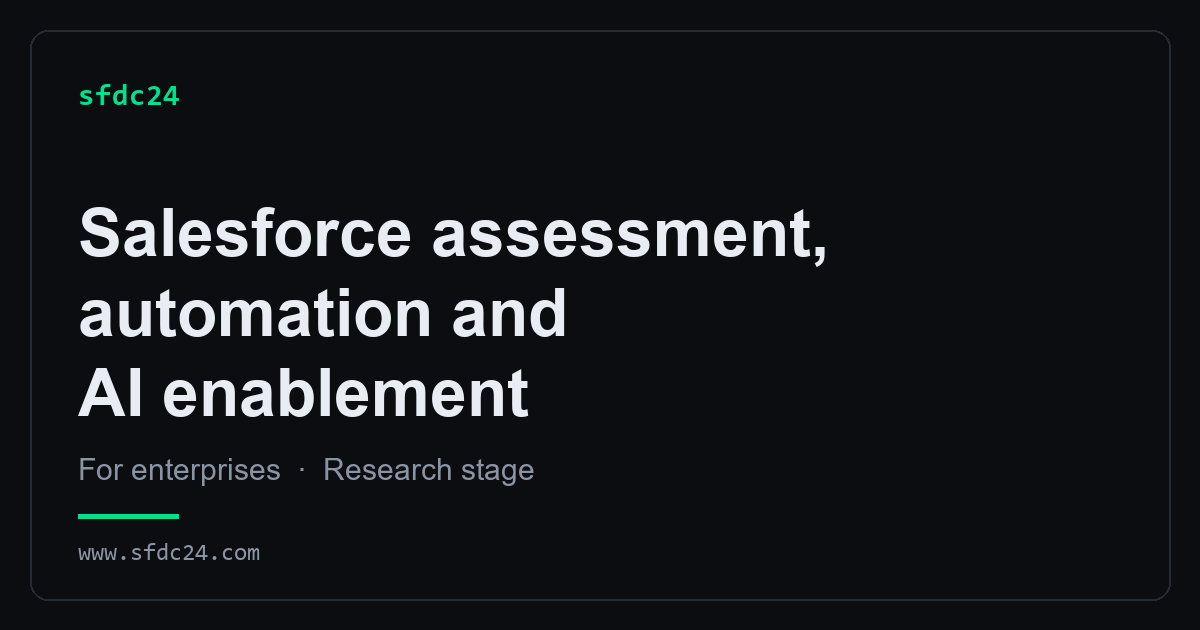
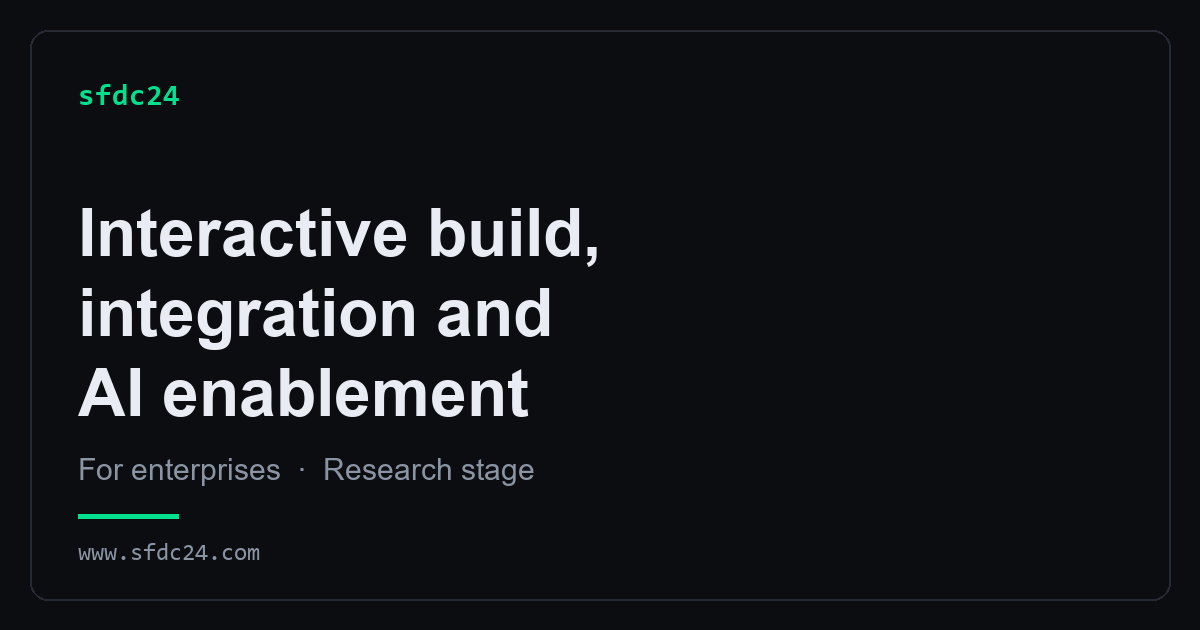
Take Salesforce out of the taglines, and make the wait worth watching
Mr. Salam, 2026-09-16: "I dont want to see 'salesforce' taglines in the
websites... sfdc24.com is all about using AI to deliver excellence to
customers", and "interactive build, true integration and seamless workflows;
what you see is what you will get here and you are first in command with layers
of controls embedded in AI working agents".

POSITIONING. The hero, title, meta description, both og tags, the ld+json block,
the close, and the taglines on intake, terms, privacy, projects and voice now
lead with interactive build, integration and AI enablement. Zero Salesforce
taglines outside /p/.

What deliberately STAYED: intake posts to Salesforce Web-to-Lead and /xray/ is a
Salesforce readout demo. Those are factual descriptions of a mechanism - making
them vague would make the pages wrong.

GAMIFIED THE WAIT. The four suggestion chips were Salesforce trivia and sent
their own label as the question. They are now symptoms - approvals that sit for
days, reports nobody trusts - and each composes a real question through
data-pick. While the answer comes back, a small runner animates beside a
rotating line about the work instead of a static "thinking...". stopWaiting()
is called on all four exit paths; without it the interval survives the answer
and a quip overwrites the error the visitor is reading.

TESTS. RETIRED was the wrong home for the Salesforce taglines and it took a
failure on a published prototype to show why. RETIRED is copy that was WRONG
[…]

Changed region(s): [[0.0617, 0.3317, 0.7092, 0.4222], [0.0617, 0.4524, 0.4933, 0.573]]

diff --git a/index.html b/index.html
@@ -8,17 +8,17 @@
      was, so for a while the page said one thing and every share card, search
      snippet and browser tab said the old one. A visitor who never scrolls sees
      the title; a visitor on LinkedIn sees only the card. Those ARE the content. -->
-<title>SFDC24 — Salesforce assessment and automation</title>
+<title>SFDC24 — interactive build, integration and AI enablement</title>
 
 <!-- The whole reason for leaving Google Sites: Sites has no field for this,
      so Google was writing our search snippet for us. -->
-<meta name="description" content="Salesforce assessment, business process automation and AI enablement for enterprises. A four-pillar model of security, operability, waste and redundancy. Research stage - the scoring model exists, the connector that reads a live org does not yet.">
+<meta name="description" content="Business process automation and AI enablement, built interactively. Describe the problem and watch it get built. You stay first in command, with layers of control inside the agents doing the work. Research stage - the scoring model exists, the connector that reads a live system does not yet.">
 <link rel="canonical" href="https://www.sfdc24.com/">
 
 <meta property="og:type" content="website">
 <meta property="og:url" content="https://www.sfdc24.com/">
-<meta property="og:title" content="SFDC24 — Salesforce assessment and automation">
-<meta property="og:description" content="Salesforce assessment, business process automation and AI enablement for enterprises &mdash; security, operability, waste, redundancy. Research stage, built in the open by a team of AI agents that review each other. No live org has been scored yet.">
+<meta property="og:title" content="SFDC24 — interactive build, integration and AI enablement">
+<meta property="og:description" content="Business process automation and AI enablement delivered as working software, not slides. You stay first in command; the controls sit inside the agents doing the work. Research stage, built in the open by a team of AI agents that review each other.">
 <meta name="theme-color" content="#0C2340">
 <meta name="apple-mobile-web-app-capable" content="yes">
 <meta name="apple-mobile-web-app-title" content="SFDC24">
@@ -27,7 +27,7 @@
 <meta property="og:image" content="https://www.sfdc24.com/assets/og.png">
 <meta property="og:image:width" content="1200">
 <meta property="og:image:height" content="630">
-<meta property="og:image:alt" content="SFDC24 - Salesforce assessment, business process automation and AI enablement for enterprises.">
+<meta property="og:image:alt" content="SFDC24 - interactive build, business process automation and AI enablement.">
 <meta name="twitter:card" content="summary_large_image">
 
 <link rel="icon" href="assets/favicon.ico" sizes="any">
@@ -49,12 +49,12 @@
   "url": "https://www.sfdc24.com/",
   "image": "https://www.sfdc24.com/assets/og.png",
   "email": "abdus@sfdc24.com",
-  "description": "Salesforce assessment, business process automation and AI enablement for enterprises. A four-pillar model — security, operability, waste, redundancy. Research stage: the scoring model exists, the connector that reads a live org is not built yet, and the sample readout on this site is synthetic.",
+  "description": "Interactive build, integration and AI enablement for enterprises. Business process automation delivered as working software, with layers of control inside the agents doing the work. Research stage: the scoring model exists, the connector that reads a live system is not built yet, and the sample readout on this site is synthetic.",
   "priceRange": "$$",
   "address": { "@type": "PostalAddress", "addressLocality": "Toronto", "addressRegion": "ON", "addressCountry": "CA" },
   "areaServed": "CA",
   "knowsAbout": [
-    "Salesforce org assessment",
+    "Interactive build",
     "Business process automation",
     "AI enablement for enterprises",
     "Process measurement"
@@ -122,6 +122,28 @@ table.ledger{width:100%;border-collapse:collapse;font-size:15px;border-top:2px s
 .console .sub{color:var(--panel-soft);font-size:16px;margin:0 0 22px;max-width:62ch}
 .chips{display:flex;gap:9px;flex-wrap:wrap;margin:0 0 22px}
 .chips[hidden]{display:none}
+
+/* The wait is the moment a visitor decides whether this thing is alive. A
+   static "thinking…" reads like a spinner; a character that keeps moving and
+   says something worth reading reads like someone is working on it. */
+.waiting{display:flex;align-items:center;gap:11px;min-height:1.3em}
+.runner{flex:none;width:22px;height:22px;position:relative}
+.runner i{position:absolute;display:block;background:var(--signal);border-radius:1px}
+.runner .head{width:7px;height:7px;border-radius:50%;left:7px;top:0}
+.runner .body{width:3px;height:9px;left:9px;top:7px}
+.runner .leg{width:3px;height:7px;top:15px;transform-origin:top center}
+.runner .l1{left:6px;animation:stride .5s infinite alternate ease-in-out}
+.runner .l2{left:12px;animation:stride .5s infinite alternate-reverse ease-in-out}
+.runner .arm{width:3px;height:6px;top:8px;transform-origin:top center}
+.runner .a1{left:5px;animation:stride .5s infinite alternate-reverse ease-in-out}
+.runner .a2{left:13px;animation:stride .5s infinite alternate ease-in-out}
+@keyframes stride{from{transform:rotate(24deg)}to{transform:rotate(-24deg)}}
+.quip{font-size:13.5px;color:var(--panel-soft);animation:quipin .4s ease both}
+@keyframes quipin{from{opacity:0;transform:translateY(3px)}to{opacity:1;transform:none}}
+@media (prefers-reduced-motion:reduce){
+  .runner i{animation:none!important}
+  .quip{animation:none!important}
+}
 .chip{background:transparent;border:1px solid var(--panel-rule);color:var(--panel-ink);
   border-radius:999px;padding:11px 16px;min-height:44px;font:500 14.5px/1.3 var(--ui);
   cursor:pointer;text-align:left}
@@ -248,11 +270,12 @@ footer nav{display:flex;gap:18px;flex-wrap:wrap}
            shipping at once, and half the words on the homepage. Kept the
            capability-led framing because it is the wording reviewed into
            tests/capabilities.json; the problem-led variant is in git history. -->
-      <h1>Salesforce assessment, automation, and AI enablement.</h1>
-      <p class="deck">We measure what an enterprise Salesforce org is quietly
-      costing &mdash; in defects, rework and time &mdash; put a number on it,
-      and say what to fix first. Then we automate the process underneath it.
-      This is research stage and we would rather say so than pretend otherwise.</p>
+      <h1>What you see is what you get.</h1>
+      <p class="deck">Describe the problem and watch it get built &mdash; business
+      process automation and AI enablement delivered as working software, not a
+      slide deck. You stay first in command, and the controls sit inside the
+      agents doing the work. This is research stage and we would rather say so
+      than pretend otherwise.</p>
 
       <div class="actions">
         <a class="btn" href="#console">Ask a question</a>
@@ -283,10 +306,10 @@ footer nav{display:flex;gap:18px;flex-wrap:wrap}
     one this can solve, it will say so rather than book you a call.</p>
 
     <div class="chips" id="chips">
-      <button class="chip" type="button">What would you look at first in an org built in 2019?</button>
-      <button class="chip" type="button">How do you tell whether a report is wrong or the data is?</button>
-      <button class="chip" type="button">What does sandbox drift actually cost per release?</button>
-      <button class="chip" type="button">When is the honest answer "don't hire anyone"?</button>
+      <button class="chip" type="button" data-pick="approvals that sit for days">Approvals that sit for days</button>
+      <button class="chip" type="button" data-pick="reports nobody trusts">Reports nobody trusts</button>
+      <button class="chip" type="button" data-pick="the same data typed in twice">The same data, typed twice</button>
+      <button class="chip" type="button" data-pick="a spreadsheet holding the process together">A spreadsheet holding it together</button>
     </div>
 
     <div class="tape" id="tape" aria-live="polite" aria-label="Conversation"></div>
@@ -335,7 +358,7 @@ footer nav{display:flex;gap:18px;flex-wrap:wrap}
     <div class="finding">
       <div class="cadence">Surfaces at every process change</div>
       <div>
-        <h3>A process that moved on without telling Salesforce</h3>
+        <h3>A process that moved on without telling the system</h3>
         <p>The business changed. The org kept the receipts. Fields outlive their
         purpose, and you end up supporting three versions of one process at once.</p>
       </div>
@@ -386,8 +409,7 @@ footer nav{display:flex;gap:18px;flex-wrap:wrap}
         <p id="honest-boundary" data-honesty="claims-we-cannot-support"><strong>Where this actually is.</strong> Research stage, and here is
         the honest boundary. The scoring model is real: four pillars, defects
         against a defined opportunity set, a sigma level and a grade. What does
-        not exist yet is the part that reads a live org. Nothing here has scored
-        anyone's Salesforce instance. The console that shows a readout runs on
+        not exist yet is the part that reads a live org. Nothing here has scored anyone's live system yet. The console that shows a readout runs on
         synthetic data and says so on its own page, in four places, because a
         demo that quietly passes for a customer result is the one thing that
         would make the rest of this worthless. The connector is designed and not
@@ -408,8 +430,8 @@ footer nav{display:flex;gap:18px;flex-wrap:wrap}
 
   <div class="close">
     <h2 class="sec">Start with the thing that keeps coming back</h2>
-    <p>If there's a Salesforce process, automation, reporting or ownership problem
-    that resurfaces every few weeks, start there. Tell us what's happening, who it
+    <p>If there's a process, automation, reporting or ownership problem that
+    resurfaces every few weeks, start there. Tell us what's happening, who it
     affects, and what your team currently does to work around it.</p>
     <div class="contact">
       <a class="btn" href="#console">Ask a question</a>
@@ -418,7 +440,7 @@ footer nav{display:flex;gap:18px;flex-wrap:wrap}
   </div>
 
   <footer>
-    <div>SFDC24 — Salesforce assessment, automation and AI enablement</div>
+    <div>SFDC24 — interactive build, integration and AI enablement</div>
     <nav>
       <a href="/projects/">Projects</a>
       <a href="/privacy/">Privacy</a>
@@ -493,9 +515,15 @@ footer nav{display:flex;gap:18px;flex-wrap:wrap}
   });
   send.addEventListener("click", submit);
 
+  /* A chip is a symptom, not a sentence. Sending its label verbatim would ask
+     "Approvals that sit for days", which is not a question. data-pick carries
+     the clause, and the chip composes it — so one tap produces something worth
+     answering and the visitor sees what was asked. */
   Array.prototype.forEach.call(chips.querySelectorAll(".chip"), function(c){
     c.addEventListener("click", function(){
-      box.value=c.textContent.trim(); sync(); submit();
+      var pick = c.getAttribute("data-pick") || c.textContent.trim();
+      box.value = "We have " + pick + ". Where would you start?";
+      sync(); submit();
     });
   });
 
@@ -547,6 +575,50 @@ footer nav{display:flex;gap:18px;flex-wrap:wrap}
     tape.scrollTop=tape.scrollHeight;
   }
 
+  /* Something to watch while it thinks. Every quip is about the work, not a
+     joke pasted on top — the page is claiming it builds things, so the wait
+     should sound like someone building rather than a loading bar. */
+  var QUIPS = [
+    "reading the question properly",
+    "checking whether this is a real problem or a symptom",
+    "most of these turn out to be four problems wearing a coat",
+    "looking for the version of this that stays fixed",
+    "a spreadsheet is a database that escaped",
+    "the process changed; nobody told the system",
+    "if the answer is “it depends”, finding out what it depends on",
+    "working out what to leave alone",
+    "the expensive bugs are the ones nobody calls bugs",
+    "nearly there"
+  ];
+  var quipTimer=null, quipAt=0;
+
+  function startWaiting(){
+    stopWaiting();
+    quipAt = Math.floor(Math.random()*QUIPS.length);
+    state.textContent="";
+    var box2=document.createElement("div"); box2.className="waiting";
+    var r=document.createElement("span"); r.className="runner";
+    r.innerHTML='<i class="head"></i><i class="body"></i>'
+              + '<i class="leg l1"></i><i class="leg l2"></i>'
+              + '<i class="arm a1"></i><i class="arm a2"></i>';
+    var q=document.createElement("span"); q.className="quip"; q.textContent=QUIPS[quipAt];
+    box2.appendChild(r); box2.appendChild(q);
+    state.appendChild(box2);
+    quipTimer=setInterval(function(){
+      quipAt=(quipAt+1)%QUIPS.length;
+      var fresh=document.createElement("span");
+      fresh.className="quip"; fresh.textContent=QUIPS[quipAt];
+      if(q.parentNode){ q.parentNode.replaceChild(fresh,q); q=fresh }
+    }, 2600);
+  }
+
+  /* Every exit path calls this. A character still running after the answer
+     arrived says the page has lost track of its own state. */
+  function stopWaiting(){
+    if(quipTimer){ clearInterval(quipTimer); quipTimer=null }
+    state.textContent="";
+  }
+
   function submit(){
     var text=box.value.trim();
     if(!text || busy) return;
@@ -554,18 +626,25 @@ footer nav{display:flex;gap:18px;flex-wrap:wrap}
     clearRecovery();
     box.value=""; sync(); busy=true; send.disabled=true;
     turn("me","you",text);
-    state.textContent="thinking…";
+    startWaiting();
 
+    /* EVERY path below stops the runner before writing its own message.
+       Setting state.textContent alone clears the text but leaves the interval
+       alive, so 2.6s later a quip would overwrite the error the visitor is
+       trying to read — and the character would keep sprinting after the answer
+       landed. stopWaiting() clears both. */
     var settled=false;
     var slow=setTimeout(function(){
       if(settled) return;
+      stopWaiting();
       state.textContent="still working — this one is taking longer than usual";
       showRecovery("It is taking longer than usual. The question has not been lost, and the answer will appear here if it arrives. If you would rather not wait, email works.", false);
     }, SLOW_MS);
 
     jsonp({action:"say", vid:vid, q:text}, function(res){
       settled=true; clearTimeout(slow);
-      busy=false; sync(); state.textContent="";
+      stopWaiting();
+      busy=false; sync();
       if(!res || !res.ok || !res.reply){
         showRecovery("The assistant could not be reached just then. Your message was not lost.", true);
         return;
@@ -575,6 +654,7 @@ footer nav{display:flex;gap:18px;flex-wrap:wrap}
       if(chips.hidden===false){ chips.hidden=true }
     }, function(reason){
       clearTimeout(slow);
+      stopWaiting();
       if(reason==="transport"){
         state.textContent="connection ended — outcome unknown";
         showRecovery("This page can no longer receive the original answer. The request may still have reached the assistant, so this page will not send it twice. Email us if you need a confirmed response.", false);

diff --git a/voice/index.html b/voice/index.html
@@ -4,7 +4,7 @@
 <meta charset="utf-8">
 <meta name="viewport" content="width=device-width,initial-scale=1,viewport-fit=cover">
 <title>Talk &mdash; SFDC24</title>
-<meta name="description" content="Talk to SFDC24 out loud about a Salesforce org. Salesforce assessment, business process automation and AI enablement for enterprises. Tap once, say what is on your mind, and hear the answer back.">
+<meta name="description" content="Talk to SFDC24 out loud about a problem in your systems. Interactive build, integration and AI enablement for enterprises. Tap once, say what is on your mind, and hear the answer back.">
 <link rel="canonical" href="https://www.sfdc24.com/voice/">
 <meta name="robots" content="noindex">
 <meta name="theme-color" content="#0B0D10">
@@ -200,8 +200,8 @@ body{overflow:hidden}
     <a href="../">&larr; back to the site</a>
   </div>
 
-  <p class="voffer">Salesforce assessment, business process automation and AI
-  enablement for enterprises. Research stage.</p>
+  <p class="voffer">Interactive build, integration and AI enablement for
+  enterprises. Research stage.</p>
 
   <div class="state" id="state">
     <span class="dotled"></span>

diff --git a/terms/index.html b/terms/index.html
@@ -37,7 +37,7 @@
 <p class="updated">Last updated 4 September 2026</p>
 
 <h2>What this site is</h2>
-<p>A Salesforce assessment, business process automation and AI enablement service for enterprises, operating from the Toronto area. It exists so you can describe a problem and find out quickly whether it is worth a conversation.</p>
+<p>An interactive build, integration and AI enablement service for enterprises, operating from the Toronto area. It exists so you can describe a problem and find out quickly whether it is worth a conversation.</p>
 
 <h2>The chat is not advice</h2>
 <p>The assistant on the home page is Claude, made by Anthropic. It is useful for working out whether there is something here worth pursuing. It is not professional advice, it can be wrong, and nothing it says creates an engagement or an obligation on either side.</p>

diff --git a/intake/index.html b/intake/index.html
@@ -142,7 +142,7 @@
   <div class="lead-in">
     <div class="eyebrow">Start here · Gate 1</div>
     <h1>Tell us what you want to build.</h1>
-    <p>Salesforce assessment, business process automation and AI enablement for enterprises. Tell us what is going wrong and you will get a straight answer about whether it is worth a conversation.</p>
+    <p>Interactive build, integration and AI enablement for enterprises. Tell us what is going wrong and you will get a straight answer about whether it is worth a conversation.</p>
     <p>Describe it in plain language. When you submit, your browser posts your details to Salesforce Web-to-Lead. This page cannot confirm that Salesforce received or stored them. No account to create, nothing to install.</p>
     <span class="chip">Intake prototype · Salesforce Web-to-Lead</span>
   </div>

diff --git a/privacy/index.html b/privacy/index.html
@@ -34,7 +34,7 @@
 </header>
 <main class="legal">
 <h1>Privacy</h1>
-<p class="lede">How this site handles what you send it. The service is Salesforce assessment, business process automation and AI enablement for enterprises.</p>
+<p class="lede">How this site handles what you send it. The service is interactive build, integration and AI enablement for enterprises.</p>
 <p class="updated">Last updated 4 September 2026</p>
 <p>This is a one-person consultancy, so this is short and describes what actually happens rather than what a template says.</p>
 

diff --git a/projects/index.html b/projects/index.html
@@ -34,7 +34,7 @@
 </header>
 <main class="legal">
 <h1>Projects</h1>
-<p class="lede">What is being built toward Salesforce assessment, business process automation and AI enablement for enterprises. Research stage, in the open.</p>
+<p class="lede">What is being built toward interactive build, integration and AI enablement for enterprises. Research stage, in the open.</p>
 <p class="updated">Updated 4 September 2026</p>
 <p>A short, honest list of what is actually being built here. It is kept current rather than impressive.</p>
 

diff --git a/assets/make_og.py b/assets/make_og.py
@@ -27,8 +27,8 @@ HERE = Path(__file__).resolve().parent
 # ---- the copy, which is what the test reads ------------------------------
 BRAND = "sfdc24"
 HEADLINE = [
-    "Salesforce assessment,",
-    "automation and",
+    "Interactive build,",
+    "integration and",
     "AI enablement",
 ]
 SUBLINE = "For enterprises  \u00b7  Research stage"
